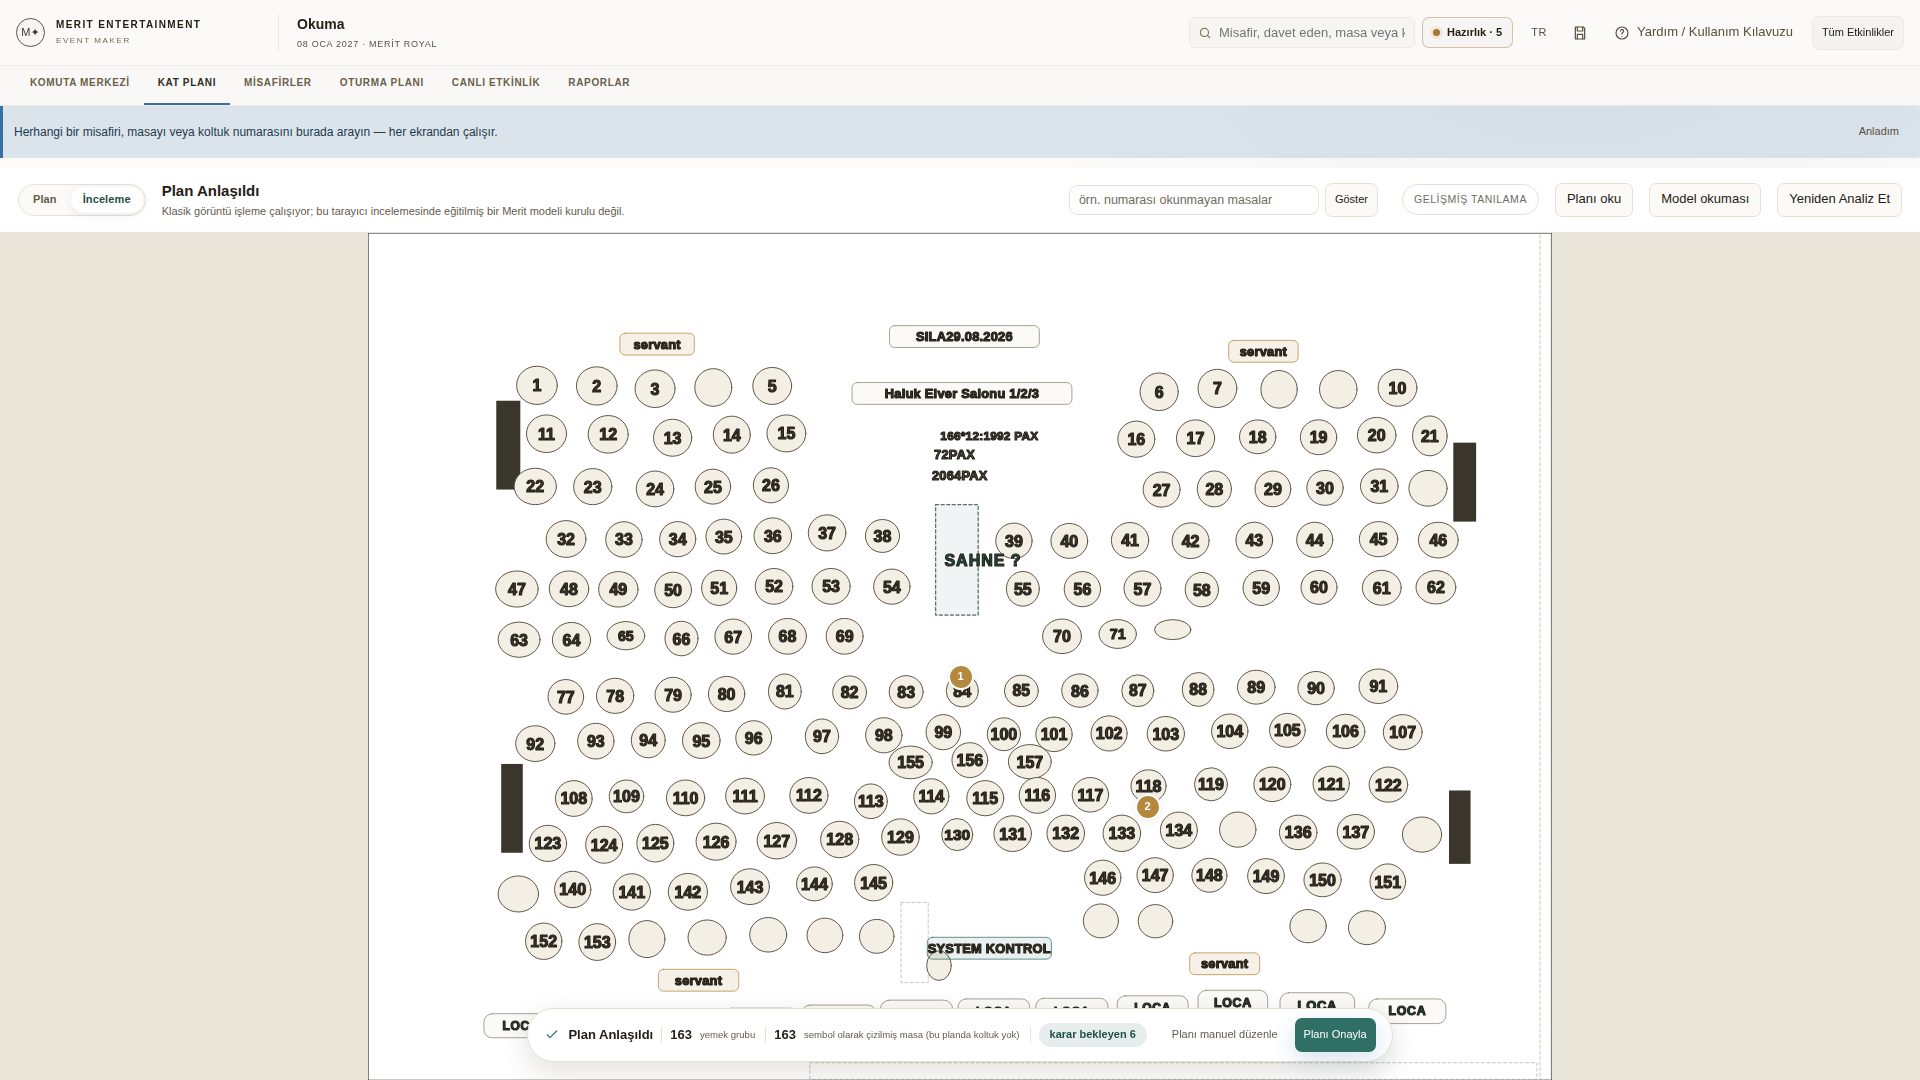
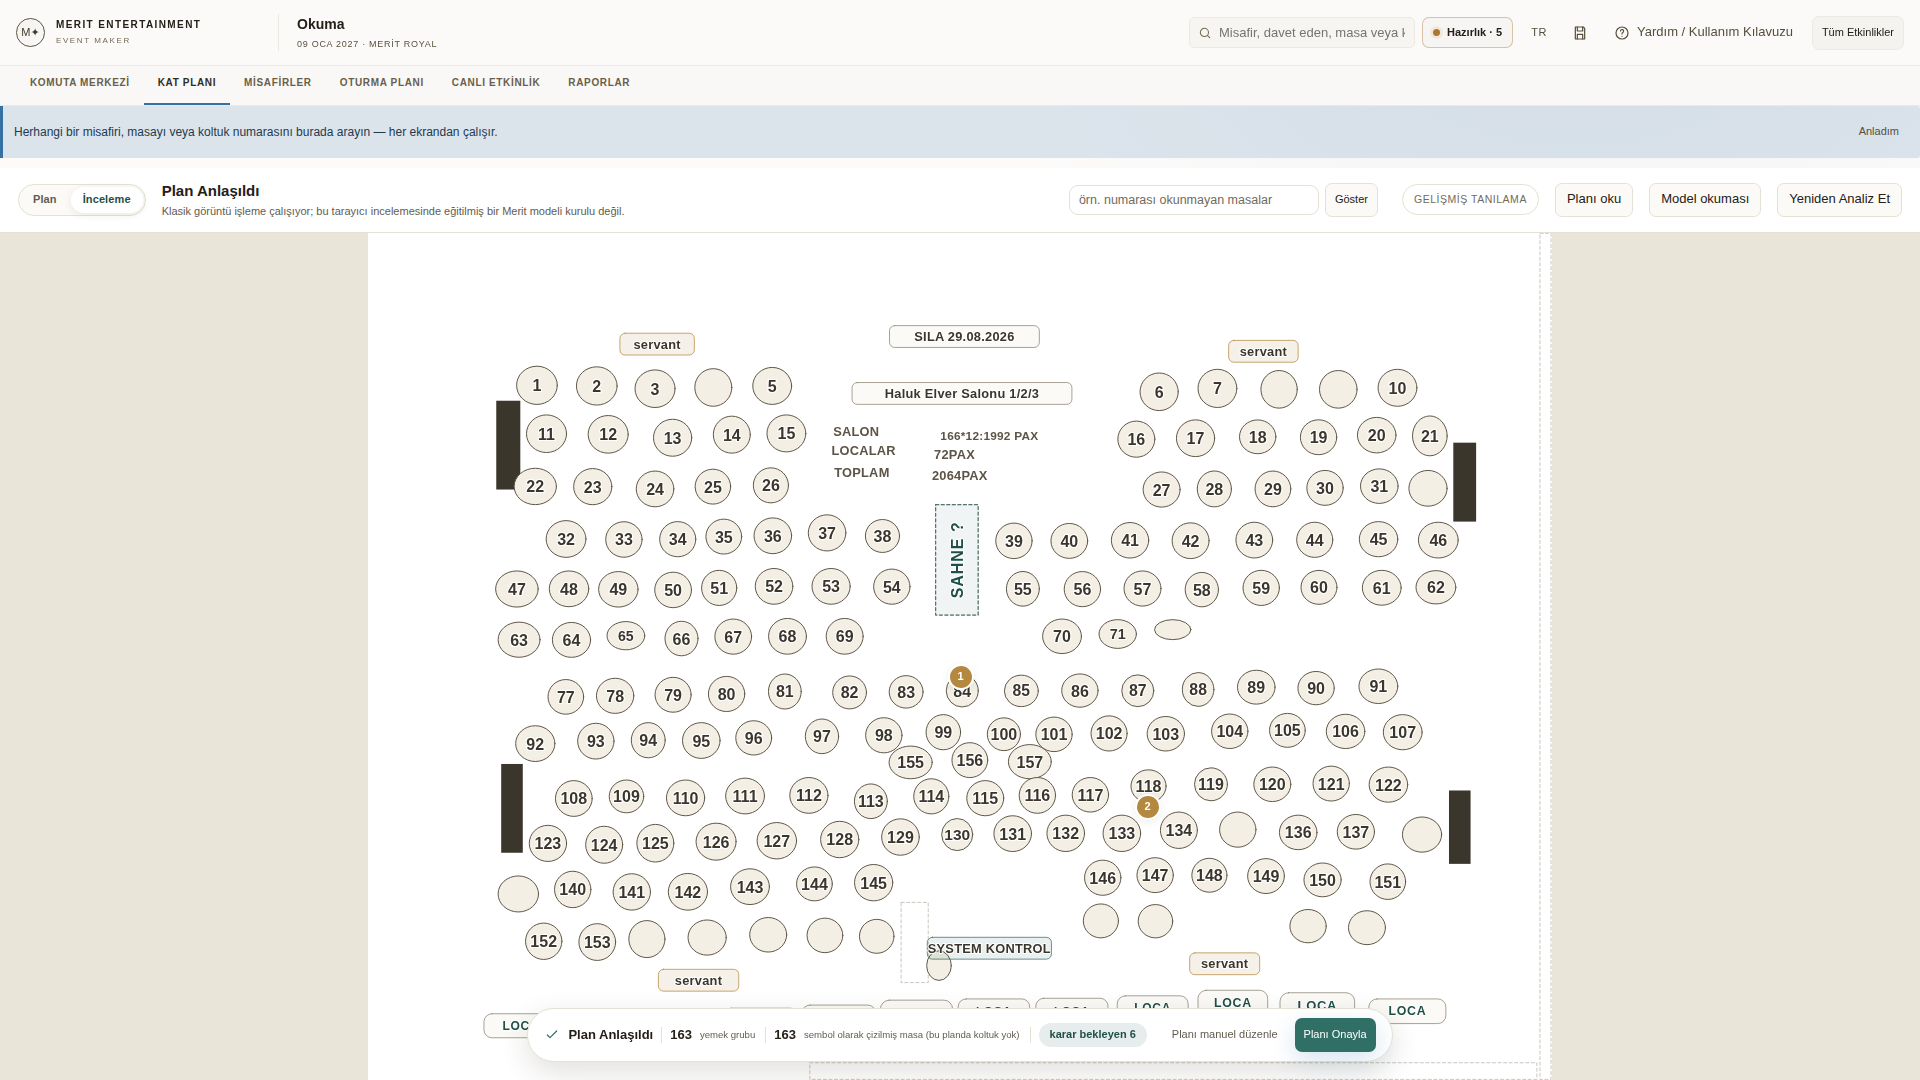
Digital view: every chair on the chair it came from; lettering legible
A chair detection's x/y is its centre (MeritPlanFrames); the digital view
drew it from the corner, so every chair sat half its own size off the scan
(25.5 px on the Golden Plan) and the Both view showed two rooms. Drawn from
its centre now, rotated about its own centre.

Three more things the close-ups showed:
- the app-wide icon rule (svg{stroke:currentColor}) outlined every letter
  in dark; the drawing resets stroke and gives text a paper halo instead;
- a pushed-together table's seats were a bare "8" beside it, which reads
  as a table number; it is worded ("8 koltuk" / "8 seats") and set on the
  joined table, along its length when the table is long and narrow;
- "SAHNE ?" on a tall, narrow block spilled across the tables beside it;
  a word longer than a number now turns to run along such a block.

plan-reading (24 checks): where every drawn chair lands against the
analysis (fails at 25.5 px with the old drawing), and that the lettering
carries the paper halo and the seats are worded (fails with the halo rule
removed). Screens regenerated at 1920/2560/1440, no console errors;
close-ups scan/digital/both added for both plans. Offline package verify
42/42.

Claude-Session: https://claude.ai/code/session_01Ak6diUNXKQisc6dYh4daPW

diff --git a/src/screen-reading.js b/src/screen-reading.js
@@ -155,7 +155,13 @@
     // Lettering is sized to the plan, not to the object: a stage the width of
     // a third of the room does not get letters a hundred pixels tall.
     const cap = Math.max(11, Math.min(26, Math.max(W, H) / 55));
-    const label = (c, text, cls) => `<text class="${cls}" x="${X(c.x + c.w / 2)}" y="${Y(c.y + c.h / 2)}" font-size="${r1(Math.max(8, Math.min(cap, c.w / 100 * W / Math.max(3, text.length) * 1.5, c.h / 100 * H * 0.5)))}">${esc(text)}</text>`;
+    // A word longer than a number turns to run along a tall, narrow block
+    // instead of spilling across the tables beside it.
+    const label = (c, text, cls) => {
+      const wPx = c.w / 100 * W, hPx = c.h / 100 * H, size = (along, across) => Math.min(cap, along / Math.max(3, text.length) * 1.5, across * 0.5);
+      const turn = text.length > 3 && size(hPx, wPx) > size(wPx, hPx) * 1.3, cx = X(c.x + c.w / 2), cy = Y(c.y + c.h / 2);
+      return `<text class="${cls}" x="${cx}" y="${cy}" font-size="${r1(Math.max(8, turn ? size(hPx, wPx) : size(wPx, hPx)))}"${turn ? ` transform="rotate(-90 ${cx} ${cy})"` : ""}>${esc(text)}</text>`;
+    };
     const order = { venue: 0, table: 1 };
     for (const c of live.slice().sort((x, y) => (order[x.kind] ?? 2) - (order[y.kind] ?? 2))) {
       const held = c.selected === false && c.status !== "confirmed" ? " dg-held" : "";
@@ -166,7 +172,9 @@
         continue;
       }
       if (c.kind !== "table") continue;
-      for (const ch of c.chairDetections || []) out.push(`<rect class="dg-chair" x="${X(ch.x)}" y="${Y(ch.y)}" width="${X(ch.w)}" height="${Y(ch.h)}" rx="${r1(Math.min(X(ch.w), Y(ch.h)) / 4)}"${rot(ch)}/>`);
+      // A chair detection's x/y is its CENTRE, not its corner (MeritPlanFrames):
+      // drawn from the corner, every chair sat half its own size off the scan.
+      for (const ch of c.chairDetections || []) out.push(`<rect class="dg-chair" x="${X(ch.x - ch.w / 2)}" y="${Y(ch.y - ch.h / 2)}" width="${X(ch.w)}" height="${Y(ch.h)}" rx="${r1(Math.min(X(ch.w), Y(ch.h)) / 4)}"${ch.rotation ? ` transform="rotate(${r1(ch.rotation)} ${X(ch.x)} ${Y(ch.y)})"` : ""}/>`);
       out.push(c.type === "round"
         ? `<ellipse class="dg-table${held}" cx="${X(c.x + c.w / 2)}" cy="${Y(c.y + c.h / 2)}" rx="${X(c.w / 2)}" ry="${Y(c.h / 2)}"/>`
         : `<rect class="dg-table${held}" x="${X(c.x)}" y="${Y(c.y)}" width="${X(c.w)}" height="${Y(c.h)}" rx="${r1(Math.min(X(c.w), Y(c.h)) / 10)}"${rot(c)}/>`);
@@ -182,8 +190,15 @@
       const seats = m.reduce((k, c) => k + (c.chairDetections || []).length, 0);
       out.push(`<rect class="dg-group" x="${X(x0)}" y="${Y(y0)}" width="${X(x1 - x0)}" height="${Y(y1 - y0)}"/>`);
       if (seats) {
-        const fs = r1(Math.max(9, Math.min(cap * 0.75, Math.min(X(x1 - x0), Y(y1 - y0)) * 0.42))), bx = X(x1) + fs * 0.3, by = Y(y0) - fs * 0.25;
-        out.push(`<rect class="dg-badge-bg" x="${r1(bx - fs * 0.15)}" y="${r1(by - fs * 0.95)}" width="${r1(fs * (String(seats).length * 0.62 + 0.3))}" height="${r1(fs * 1.15)}" rx="${r1(fs * 0.3)}"/><text class="dg-badge" x="${r1(bx)}" y="${r1(by)}" font-size="${fs}">${seats}</text>`);
+        // Worded, not a bare figure (a lone "8" beside a table reads as its
+        // number), and set on the joined table itself, below any number read
+        // on it, rather than out over the chairs of the table next door.
+        const word = t("read.digital.seats", { n: seats }), numbered = m.some((c) => c.printedNumber && c.printedNumber.state === "VERIFIED");
+        // A long, narrow joined table carries it along its length, as a label does.
+        const gw = X(x1 - x0), gh = Y(y1 - y0), turn = gh > gw * 1.6, along = turn ? gh : gw, across = turn ? gw : gh;
+        const fs = r1(Math.max(8, Math.min(cap * 0.5, along * 0.9 / (word.length * 0.58 + 0.9), across * 0.3)));
+        const bx = X((x0 + x1) / 2) + (numbered && turn ? fs * 1.3 : 0), by = r1(Y((y0 + y1) / 2) + (numbered && !turn ? fs * 1.3 : 0)), bw = r1(fs * (word.length * 0.58 + 0.9));
+        out.push(`<g class="dg-seats"${turn ? ` transform="rotate(-90 ${r1(bx)} ${by})"` : ""}><rect class="dg-badge-bg" x="${r1(bx - bw / 2)}" y="${r1(by - fs * 0.75)}" width="${bw}" height="${r1(fs * 1.5)}" rx="${r1(fs * 0.75)}"/><text class="dg-badge" x="${r1(bx)}" y="${by}" font-size="${fs}">${esc(word)}</text></g>`);
       }
     }
     // What was understood but is not an object: places the sheet only writes
@@ -194,7 +209,7 @@
       const maybe = reading.sections.flatMap((x) => x.sentences).find((x) => x.key === "read.stage.maybe");
       for (const id of (maybe ? maybe.refs : [])) {
         const c = byId.get(id);
-        if (c) { out.push(`<rect class="dg-stage dg-held" x="${X(c.x)}" y="${Y(c.y)}" width="${X(c.w)}" height="${Y(c.h)}"/>`); out.push(label({ ...c, w: Math.max(c.w, 8) }, typeWord("stage", 1).toLocaleUpperCase(ui.lang === "tr" ? "tr" : "en") + " ?", "dg-label")); }
+        if (c) { out.push(`<rect class="dg-stage dg-held" x="${X(c.x)}" y="${Y(c.y)}" width="${X(c.w)}" height="${Y(c.h)}"/>`); out.push(label(c, typeWord("stage", 1).toLocaleUpperCase(ui.lang === "tr" ? "tr" : "en") + " ?", "dg-label")); }
       }
       const tag = (tx, text, cls) => {
         const fs = r1(Math.min(cap * 0.8, Math.max(10, Y(tx.box.h) * 0.8))), w = r1(Math.max(X(tx.box.w), text.length * fs * 0.62 + fs));

diff --git a/src/styles.css b/src/styles.css
@@ -2299,7 +2299,10 @@ button.mx-metric:focus-visible{outline:none;box-shadow:var(--ring);z-index:1}
 .read-mark.word{border-color:var(--pi-warn);background:rgba(181,136,63,.12);box-shadow:0 0 0 3px rgba(181,136,63,.18)}
 .read-mark.region{border-style:dashed;background:transparent;box-shadow:none}
 /* The digital view: the plan redrawn from what was understood */
-.digital-plan{position:absolute;inset:0;width:100%;height:100%;pointer-events:none}
+.digital-plan{position:absolute;inset:0;width:100%;height:100%;pointer-events:none;stroke:none;stroke-width:1}
+/* The app-wide icon rule (svg{stroke:currentColor}) outlined every letter here; a paper halo instead keeps a word legible over the scan in Both */
+.digital-plan text{stroke:var(--pi-surface);stroke-width:.14em;stroke-linejoin:round;paint-order:stroke fill}
+.digital-plan .dg-badge{stroke:none}
 .view-digital .planintel-map-inner > img{opacity:0}
 .view-both .planintel-map-inner > img{opacity:.38}
 .view-digital .candidate-box:not(.selected),.view-both .candidate-box:not(.selected){border-color:transparent;background:transparent}
@@ -2319,8 +2322,8 @@ button.mx-metric:focus-visible{outline:none;box-shadow:var(--ring);z-index:1}
 .dg-group{fill:none;stroke:var(--pi-accent);stroke-width:1.6;stroke-dasharray:6 4}
 .dg-label{fill:var(--pi-accent-strong);font-weight:700;letter-spacing:.06em;text-anchor:middle;dominant-baseline:central;font-family:inherit}
 .dg-number{fill:#3b362c;font-weight:700;text-anchor:middle;dominant-baseline:central;font-family:inherit}
-.dg-badge{fill:#fff;font-weight:800;text-anchor:start;dominant-baseline:auto;font-family:inherit}
-.dg-badge-bg{fill:var(--pi-accent-strong)}
+.dg-badge{fill:var(--pi-accent-strong);font-weight:700;text-anchor:middle;dominant-baseline:central;font-family:inherit}
+.dg-badge-bg{fill:var(--pi-surface);stroke:var(--pi-accent);stroke-width:1.2}
 .dg-place rect{fill:rgba(181,136,63,.12);stroke:var(--pi-warn);stroke-width:1.2}
 .dg-place text,.dg-title text,.dg-capacity text{fill:#3b362c;font-weight:700;text-anchor:middle;dominant-baseline:central;font-family:inherit;letter-spacing:.02em}
 .dg-technical rect{fill:rgba(47,111,102,.10);stroke:var(--pi-accent)}

diff --git a/src/i18n.js b/src/i18n.js
@@ -604,6 +604,7 @@
     "read.sizeItem": { en: "{n} × {size} tables", tr: "{n} × {size} masa" },
     "read.view.original": { en: "Original", tr: "Orijinal" },
     "read.view.digital": { en: "Digital", tr: "Dijital" },
+    "read.digital.seats": { en: "{n} seats", tr: "{n} koltuk" },
     "read.view.both": { en: "Both", tr: "Üst üste" },
     "read.view.label": { en: "How to show the plan", tr: "Planın gösterimi" },
     "scene.label": { en: "Ask about the plan", tr: "Plana soru sorun" },

diff --git a/tests/README.md b/tests/README.md
@@ -74,7 +74,7 @@ if any check failed, any suite threw, or any suite saw a page error.
 | `vlm-decisions` | intelligence, business, fast | Accept can override a confirmed object or a count a person typed, re-offers a "missing" object where a person rejected one (in the analysis or in plan memory), reads `lowEvidence` as `=== true` instead of its `{reason}` shape, treats a nested object (a table in a loca, a chair at a table) as a duplicate or a second table on a table as new, leaves a missed chair as a loose box instead of its table's chair, or gives a number to a table counted by its drawn chairs. Node-only, against the module itself; `MERIT_VLM_REVIEW_SRC` points it at another copy. Red on 602ba27 (B1–B3, C1, D5, E1) |
 | `dependency-inventory` | security, fast | a third-party pin in `index.html`, `src/pdf-bridge.mjs`, a build script, the OCR loader, the test vendor list or `package.json` changes without its row in `benchmarks/dependencies/INVENTORY.json` (or a row outlives its pin), an advisory row has no OPEN / NOT AFFECTED / NOT REACHABLE status, or an OPEN advisory stops naming its fixed version and what blocks it — the CDN scripts, WASM and model weights `npm audit` never sees |
 | `scene-queries` | intelligence, ux | a question about the plan (TR/EN) is guessed instead of matched to the closed set, "next to the stage" is measured in plan-percent instead of pixels, a rejected object or an unverified number becomes an answer, the answer does not open as a review queue, or asking changes the analysis |
-| `plan-reading` | intelligence, ux | a sentence of the plan reading stands on an object that does not exist or was rejected, a possible stage is promoted to a stage, a line of sight is tested in stretched percent instead of pixels, a word on the plan is put in the wrong category or loses what it was used for, a sentence key lacks a language, a line no longer marks and zooms to its objects, a part of the room is not read on its own, the digital view drops a table or shows the scan, or reading changes the analysis |
+| `plan-reading` | intelligence, ux | a sentence of the plan reading stands on an object that does not exist or was rejected, a possible stage is promoted to a stage, a line of sight is tested in stretched percent instead of pixels, a word on the plan is put in the wrong category or loses what it was used for, a sentence key lacks a language, a line no longer marks and zooms to its objects, a part of the room is not read on its own, the digital view drops a table, draws a chair off the one the analysis found (centre read as corner), outlines its lettering in the icons' dark stroke, prints a pushed-together table's seats as a bare figure or shows the scan, or reading changes the analysis |
 | `plan-reading-ornek` | intelligence, slow | on the real concert plan: the event line, the printed rule and total, the per-box share, the service points and technical desk, the legend, the possible (never certain) stage, no joined round symbols, and read + open numbers adding up |
 | `vlm-reading` | intelligence, security, ui | the review screen's Model reading sends anything before a person confirms (opening the panel and the free connection check send no plan), its confirmation stops naming what is and is not sent and the caps, a guest's name, note, inviter or the event's name reaches the upstream, the key reaches the browser (a reply, the page, storage), the whole plan and the model's close-ups stop landing in plan coordinates as marks and rows, a finished reading changes an object by itself, Accept changes more than the one object (a type correction spreading to its family) or goes around the existing writers, a printed number, a note or a finding about a decided object becomes applicable, model text renders as markup, an answer for an older analysis is merged, Cancel stops stopping the request in flight, an empty balance is only a toast, findings do not survive a reload, or a historical event can start a reading. Through the real relay with a SCRIPTED upstream — no model runs |
 | `chair-families` | intelligence, **slow** | the detector can only describe one kind of chair again, or printed text gets in as the second kind |

diff --git a/benchmarks/plan-reading/README.md b/benchmarks/plan-reading/README.md
@@ -42,6 +42,14 @@ over the scan. It draws:
 Teach it ("this block is the stage") and it is drawn as the stage and read back
 as yours.
 
+Close-ups, scan / digital / both: `screens/digital-tables-golden.png` and
+`screens/digital-tables-ornek.png`. Each chair is drawn on the chair the
+analysis found. Before 2026-10-11 every chair was drawn half its own size off
+the scan, because a chair detection's x/y is its centre and it was read as a
+corner; `plan-reading` now checks where every chair lands. The ORNEK close-up
+also shows what is still missing. Table 73 was not found, and 72's number was
+not read, so its circle is drawn blank. Nothing is invented to fill either gap.
+
 ## Measured
 
 `node benchmarks/plan-reading/measure-structure.mjs` (real detector, pinned OCR,
@@ -70,6 +78,6 @@ Reading the plan takes about 6–9 ms. Time and memory on two CPU cores are in
   "possible stage" rule are generic, but they are only proven on these two
   plans. They are checked again on each new venue (`../plan-understanding/NEW-VENUES.md`).
 
-Suites: `plan-reading` (fast, 22 checks, mutation-checked), `plan-reading-ornek`
+Suites: `plan-reading` (fast, 24 checks, mutation-checked), `plan-reading-ornek`
 (slow, 11 checks, real OCR), `a11y-scan` (the panel and the digital view, both
 languages). Screens: `screens/` (1920 / 2560 / 1440, TR and EN).

diff --git a/.claude/agents/frontend-architect.md b/.claude/agents/frontend-architect.md
@@ -50,7 +50,7 @@ commit as the change that moves it.
 | Fact | Value | How to re-measure |
 |---|---|---|
 | `src/*.js` files | **84** | `ls src/*.js \| wc -l` |
-| `src/` total lines | **29,240** | `wc -l src/*.js` |
+| `src/` total lines | **29,256** | `wc -l src/*.js` |
 | `app-v8.js` | **5,138** lines (5,740 right after the detection extraction and 8,543 before it — history, in CLAUDE.md) | `wc -l src/app-v8.js` |
 | Longest single line in `app-v8.js` | **1,677** chars; **14** lines exceed 500 | `awk '{print length}' src/app-v8.js \| sort -rn \| head -1` |
 | `plan-detection-classical.js` | **225** lines — the orchestrator `detect()` over seven stage modules (Split A/B) | `wc -l src/plan-detection-classical.js` |
